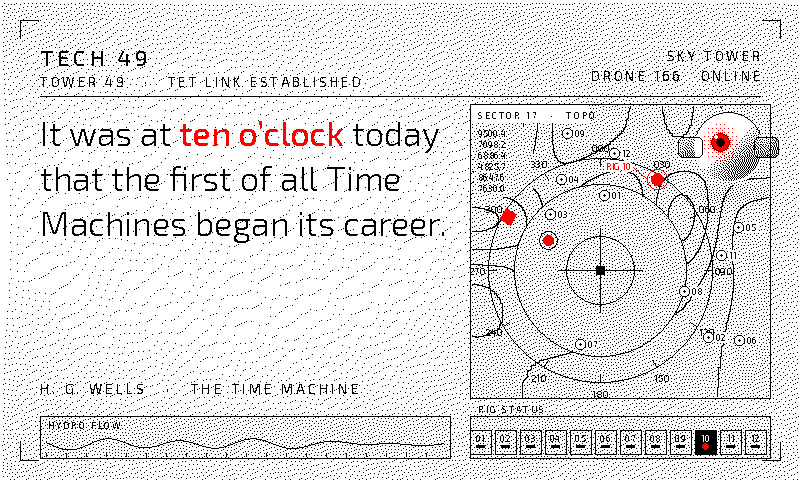
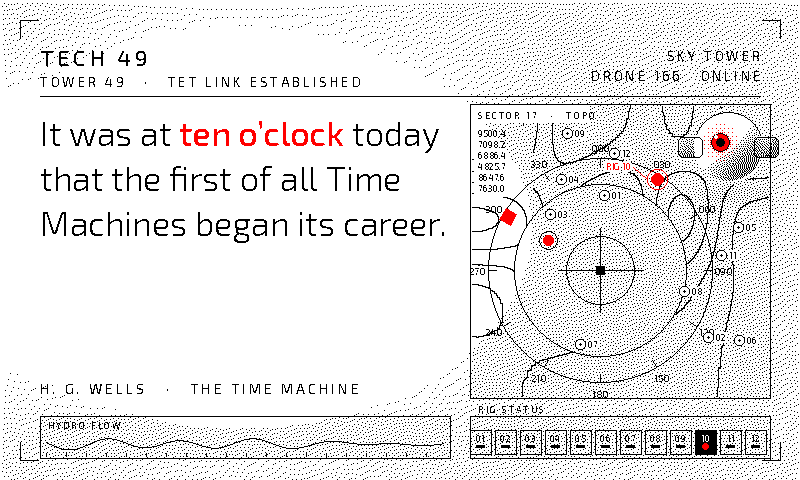
Wipe the oblivion pool's heart to white after the dither
Claude-Session: https://claude.ai/code/session_01BX1p4EZ72xBUVFvdt3LLXZ

Changed region(s): [[0.0, 0.0, 1.0, 1.0], [0.0, 0.0, 0.125, 0.0938]]

diff --git a/idle_hours/render_quote.py b/idle_hours/render_quote.py
@@ -35563,12 +35563,14 @@ def _oblivion_pool(size, box, blur: int) -> Image.Image:
     return mask.filter(ImageFilter.GaussianBlur(blur))
 
 
-def _oblivion_paint_glass(scene: Image.Image) -> None:
+def _oblivion_paint_glass(scene: Image.Image) -> Image.Image:
     """The light table in continuous tone: grey glass, the white pool under
-    the quote, the frosted panes, the drone's shadow, the grain."""
+    the quote, the frosted panes, the drone's shadow, the grain. Returns the
+    pool's mask, whose saturated heart is cleaned after the dither."""
     size = scene.size
     scene.paste(Image.new("RGB", size, _oblivion_tone(0.07)), (0, 0))
-    pool = _oblivion_pool(size, (-60, 30, 540, 430), 50)
+    # Saturated inside so the pool's heart is clean white; the blur only softens its edge.
+    pool = _oblivion_pool(size, (-60, 30, 540, 430), 50).point(lambda v: min(255, v * 2))
     scene.paste(Image.new("RGB", size, _OBLIVION_WHITE), (0, 0), pool)
     # The panes: the map and the two strips, a shade darker with soft edges.
     for rect in (_OBLIVION_MAP_RECT, _OBLIVION_WAVE_RECT, _OBLIVION_RIG_BAND):
@@ -35586,8 +35588,8 @@ def _oblivion_paint_glass(scene: Image.Image) -> None:
     grain = ImageChops.multiply(grain, pool.point(lambda v: 255 - v))
     scene.paste(ImageChops.subtract(ImageChops.add(scene, Image.merge("RGB", (grain, grain, grain))),
                                     Image.new("RGB", size, (3, 3, 3))))
-    pool.close()
     shadow.close()
+    return pool
 
 
 def _oblivion_paint_drone_tone(scene: Image.Image) -> None:
@@ -35657,9 +35659,15 @@ def _oblivion_scene() -> Image.Image:
         return cached[1]
     size = (800, 480)
     scene = Image.new("RGB", size, _OBLIVION_WHITE)
-    _oblivion_paint_glass(scene)
+    pool = _oblivion_paint_glass(scene)
     _oblivion_paint_drone_tone(scene)
     image = _expedition_dither(scene, _OBLIVION_INKS)
+    # Error diffusion carries the grey glass's residue a little way into the
+    # pool; its saturated heart is wiped back to white, which is what the lit
+    # centre of a light table is.
+    if pool is not None:        # the decoration fence neuters the glass painter
+        image.paste(Image.new("RGB", size, SPECTRA6["white"]), (0, 0), pool.point(lambda v: 255 if v == 255 else 0))
+        pool.close()
     image.paste(Image.new("RGB", size, SPECTRA6["black"]), (0, 0), _oblivion_contours(size))
     _OBLIVION_SCENE["frame"] = (key, image)
     return image
